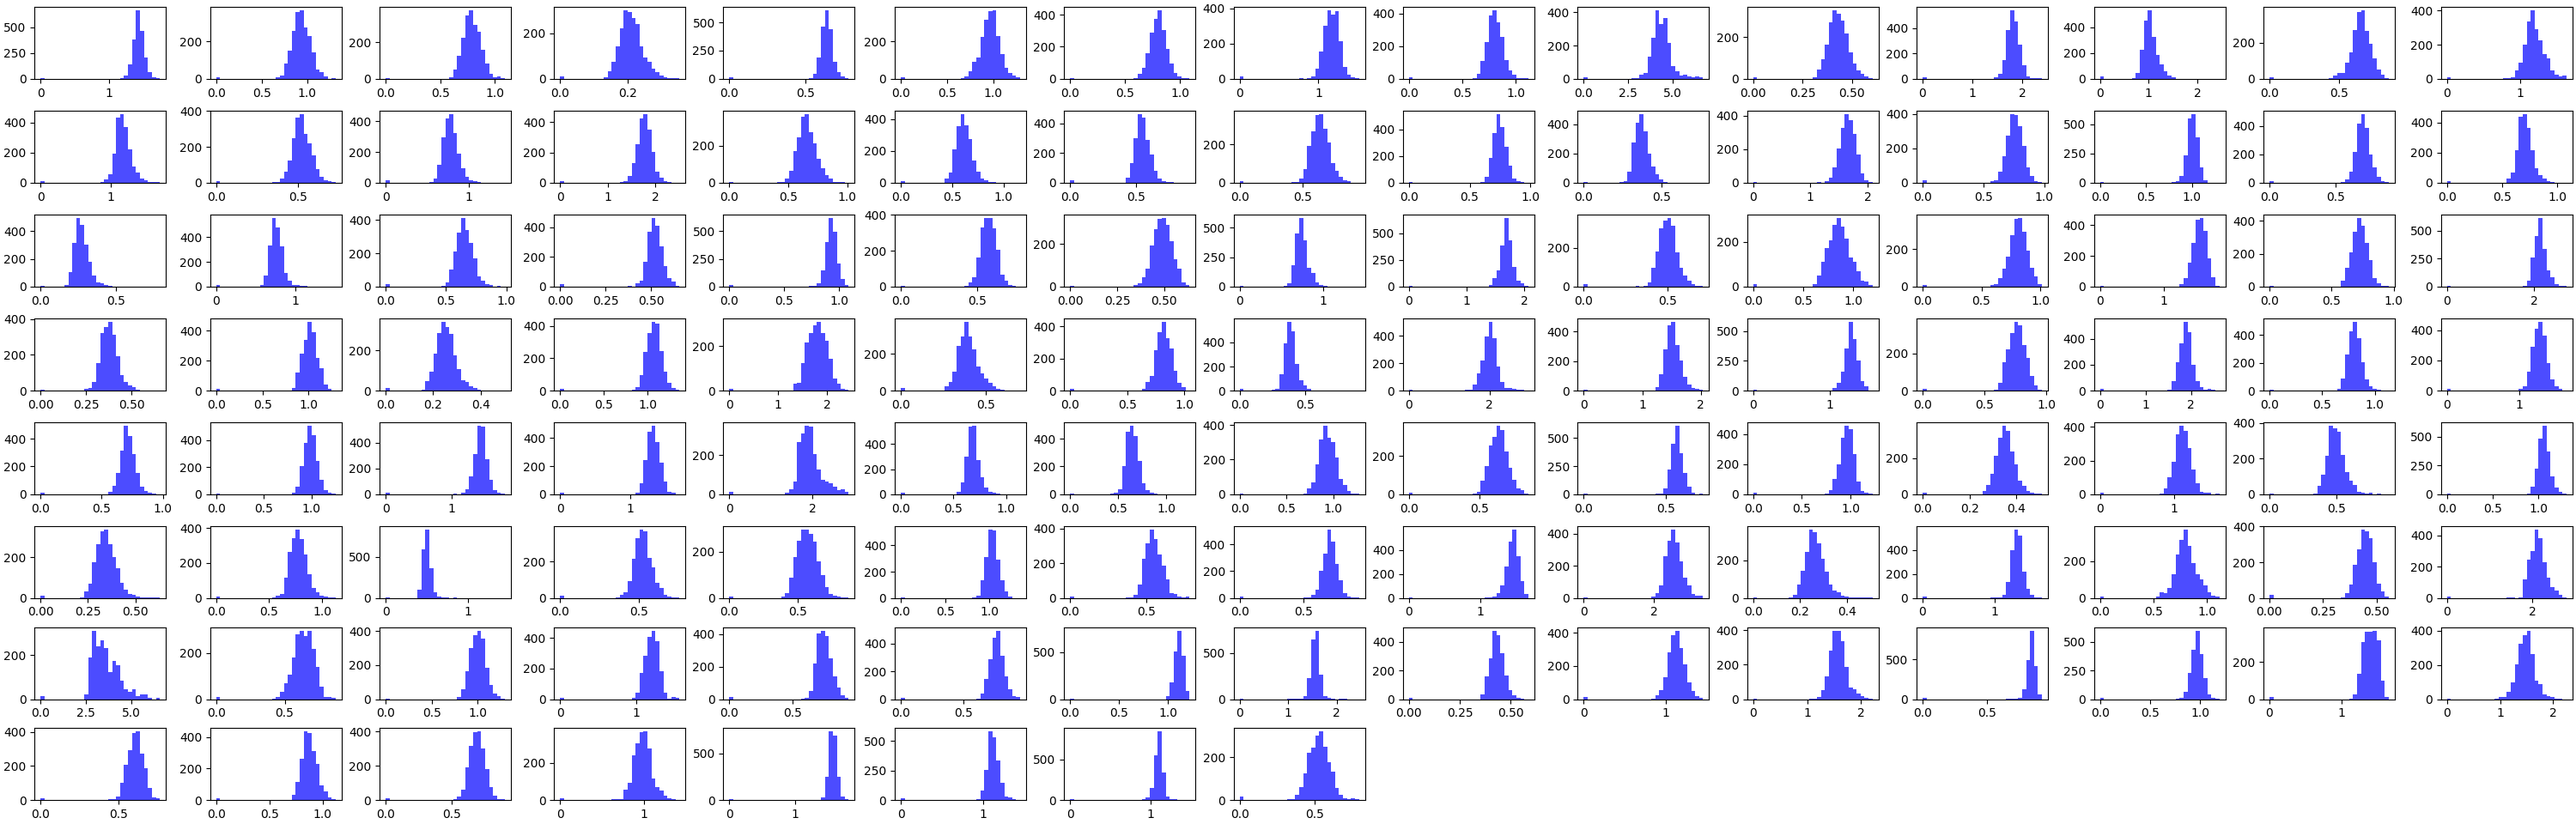
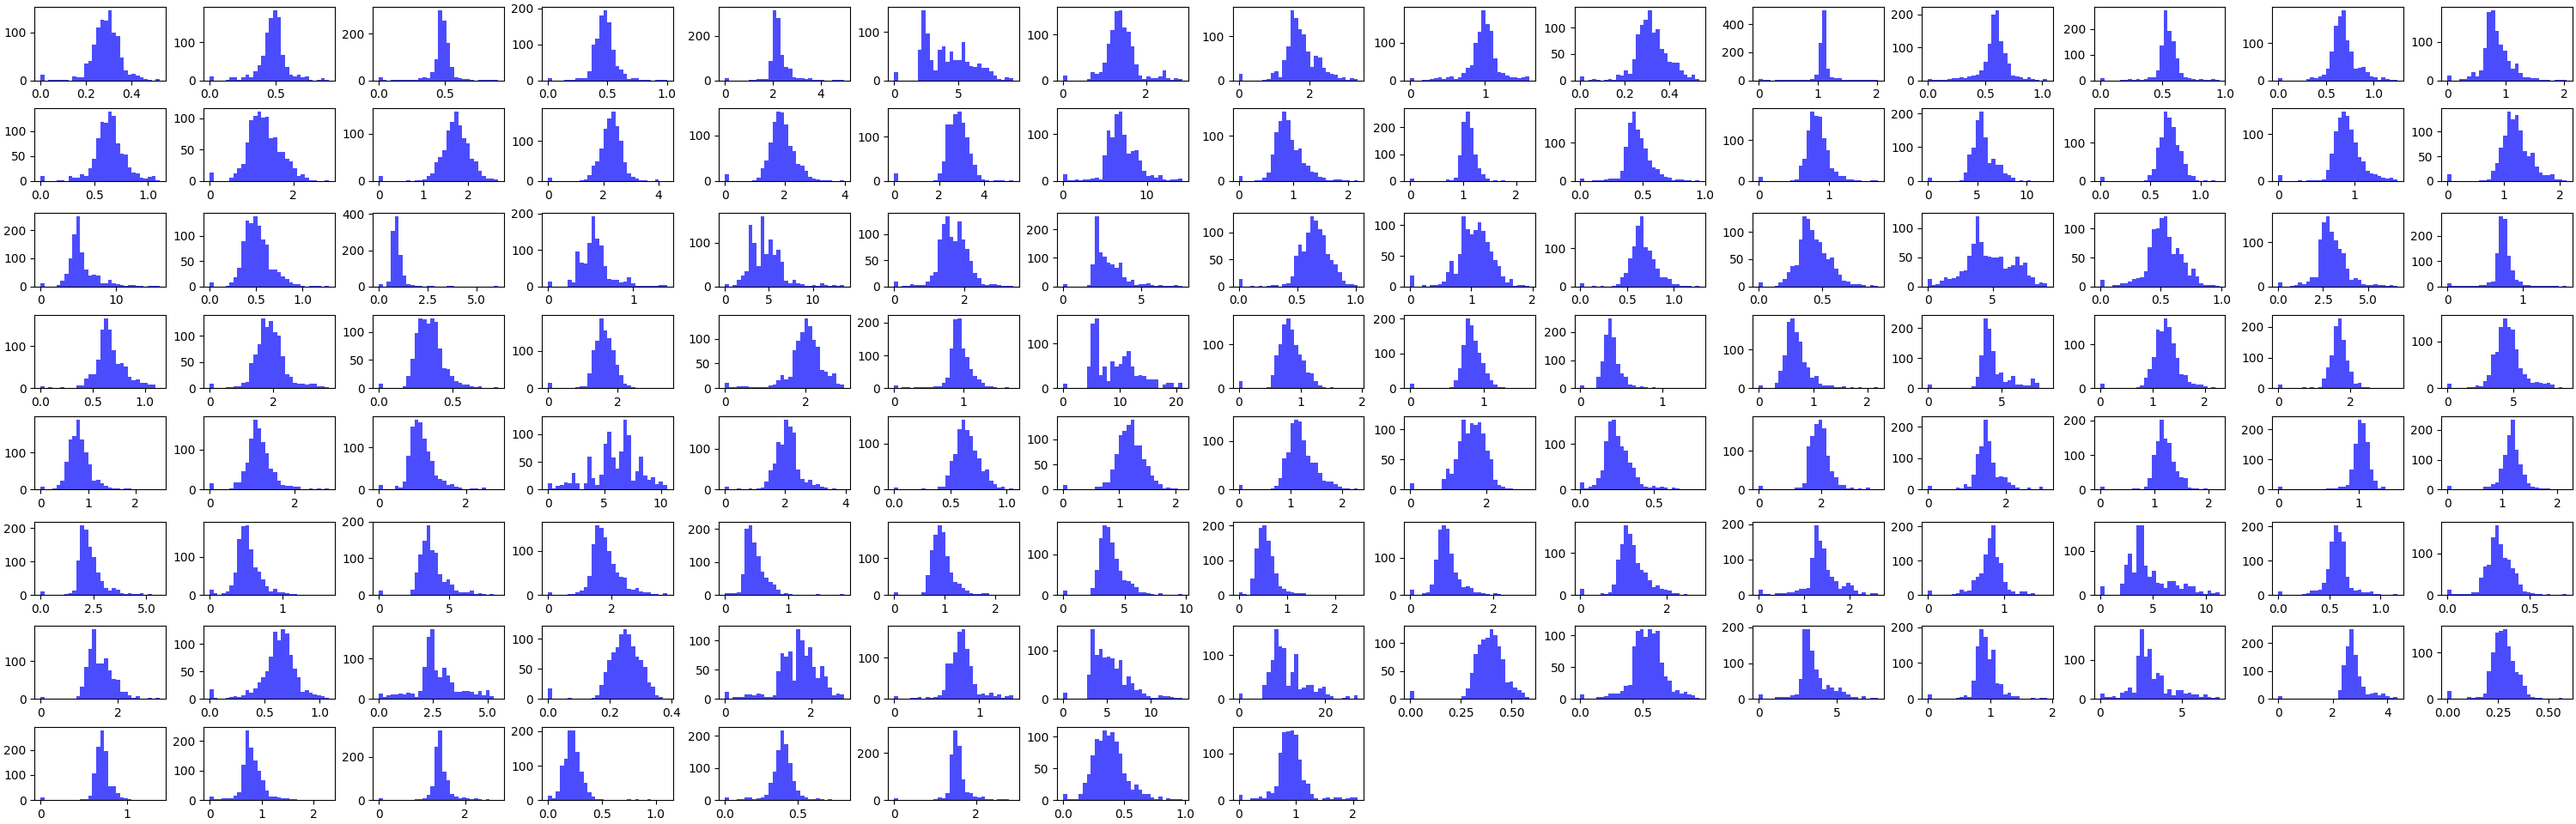
minor

Changed region(s): [[0.0, 0.0, 1.0, 1.0]]

diff --git a/simulation/simulator.py b/simulation/simulator.py
@@ -173,6 +173,7 @@ class Simulator:
         self.dropout = np.random.random() * 0.1
         self.concentration_noise = 0.6 * np.random.random()
         self.log_kinetic_constants_noise = 0.4 * np.random.random()
+        print(self.dropout, self.concentration_noise, self.log_kinetic_constants_noise)
     
     def graph_components(self):
         """Identifies connected components in the graph. Needed to avoid singular matrices during simulation."""
@@ -398,10 +399,10 @@ class Simulator:
         else:
             self.simulated_data = np.array(concentration_data)  #shape (steps, num_nodes)
         
-        np.random.shuffle(self.simulated_data)
+        #np.random.shuffle(self.simulated_data)
 
         if track_concentrations != []:
-            plt.plot(self.simulated_data[:, 0, track_concentrations])
+            plt.plot(self.simulated_data[:, 1, track_concentrations])
             plt.xlabel('Time Steps')
             plt.ylabel('Concentration')
             plt.title('Noisy Simulation Trajectories of Tracked Nodes')
@@ -474,14 +475,14 @@ if __name__ == "__main__":
     simulator = Simulator(random_seed=42)
     graph = simulator.build_graph(adjacency_matrix=adj_matrix)
     #simulator.graph_info()
-    simulator.sample_free_energies(mean=0, sigma=1.0, mean_barrier=1.0, random_seed=22, c_rank=5, reax_rank=5, n_samples=10)
+    simulator.sample_free_energies(mean=0, sigma=1.0, mean_barrier=1.0, random_seed=12, c_rank=5, reax_rank=5, n_samples=10)
 
     nodes_to_track = [i for i in range(len(all_lipids))]
     concentrations = simulator.run_equilibration(track_concentrations=nodes_to_track)
     simulator.set_simulation_parameters(correlation_matrix=correlation_matrix)
     simulated_data = simulator.run_noisy_simulation(steps=100, num_perturbations=10, track_concentrations=nodes_to_track)
 
-    #mean_concentrations, std_concentrations = simulator.analyze_results()
+    mean_concentrations, std_concentrations = simulator.analyze_results()
 
     correlation_matrix_simulated = np.corrcoef(simulated_data[:,0,:].T)
     correlation_df = pd.DataFrame(correlation_matrix_simulated, index=all_lipids, columns=all_lipids)
